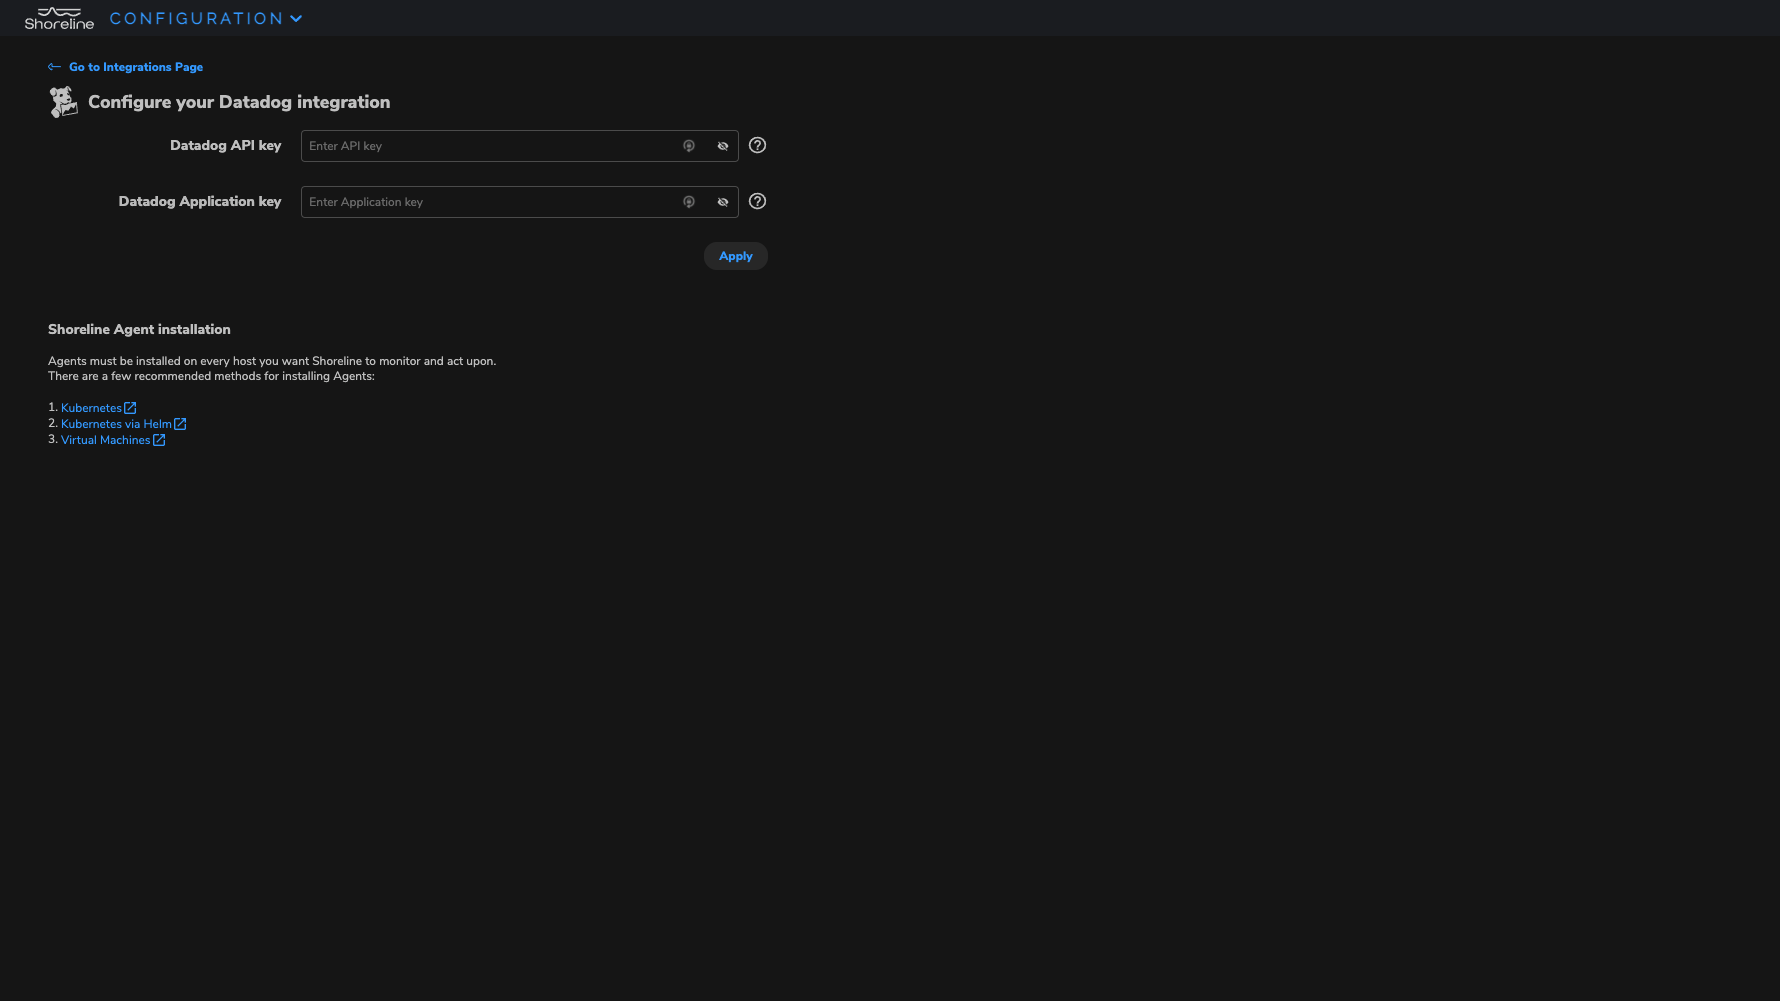
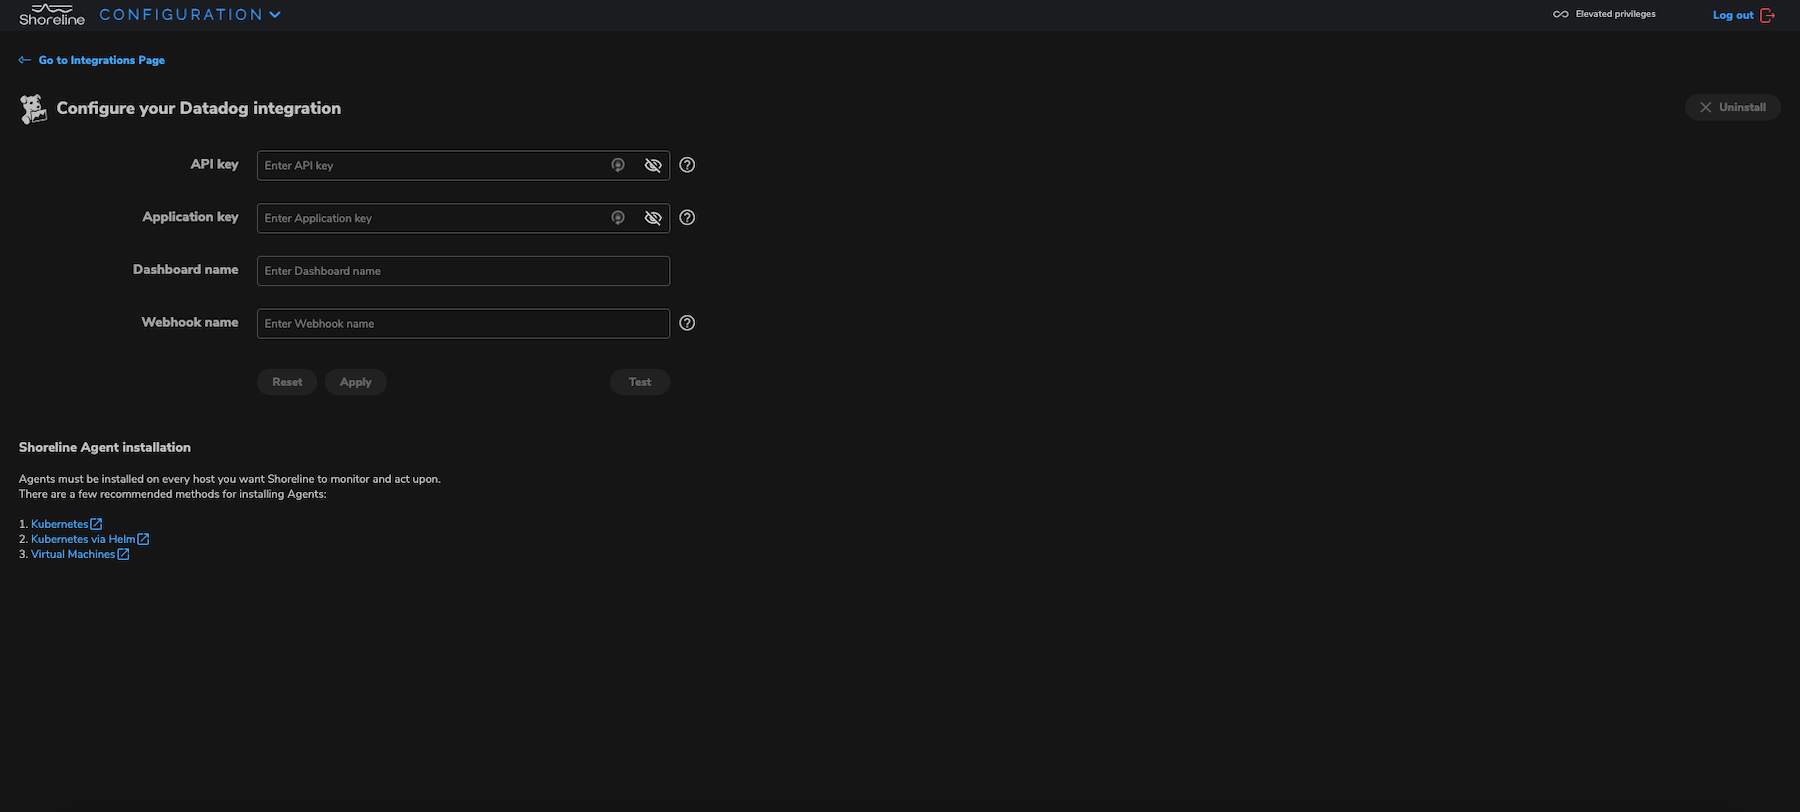
adjust shoreline integration codeowners and replace integrate_shoreline_and_datadog.png image to reflect the new UI changes

diff --git a/shoreline/README.md b/shoreline/README.md
@@ -41,7 +41,7 @@ To install the Shoreline Agent, follow one of three methods:
 
 #### Configuring the app
 
-To configure the Datadog-Shoreline App in Shoreline, you need your Datadog API and application keys. 
+To configure the Datadog-Shoreline App in Shoreline, you need your Datadog API and application keys and also, to define the Dashboard name and Webhook name.
 
 For example:
 ![integration_example](https://raw.githubusercontent.com/DataDog/integrations-extras/master/shoreline/images/integrate_shoreline_and_datadog.png)
